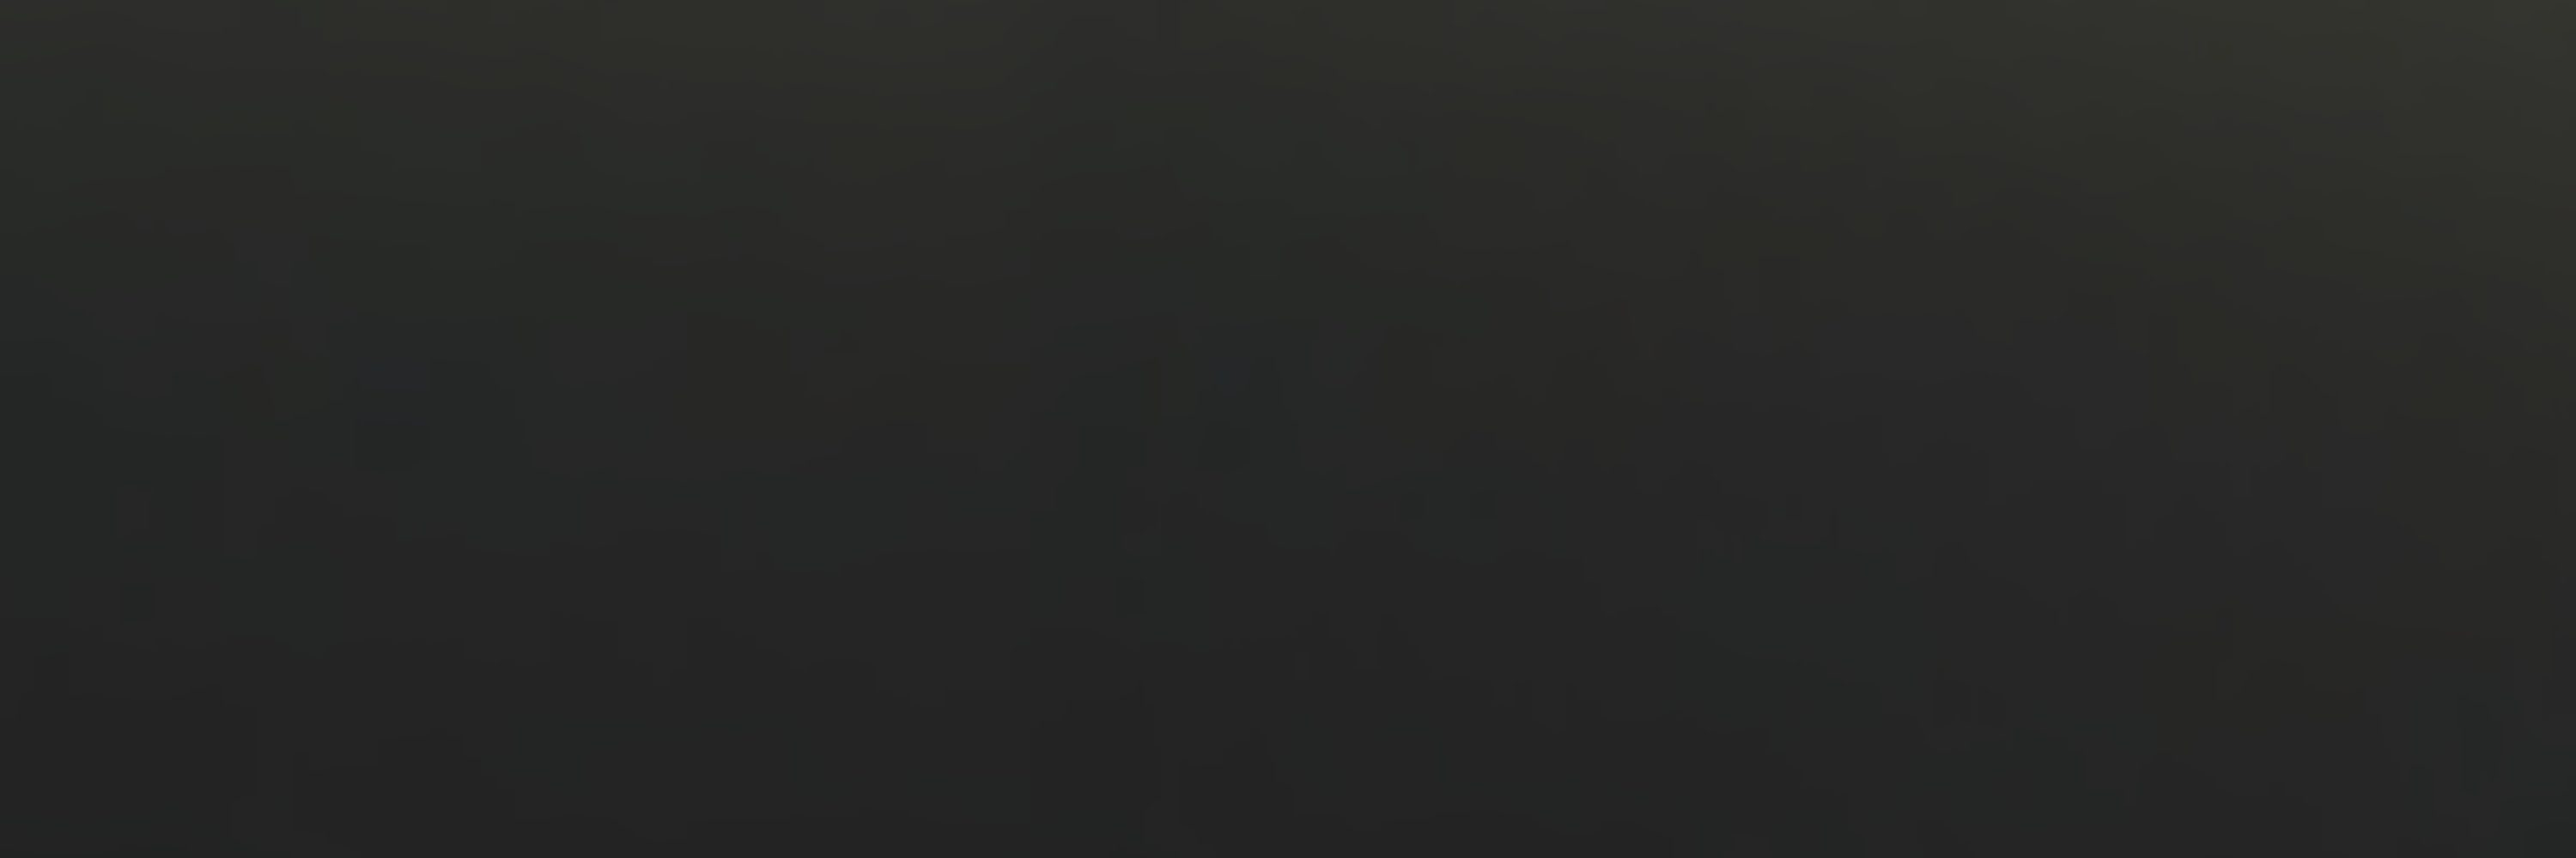
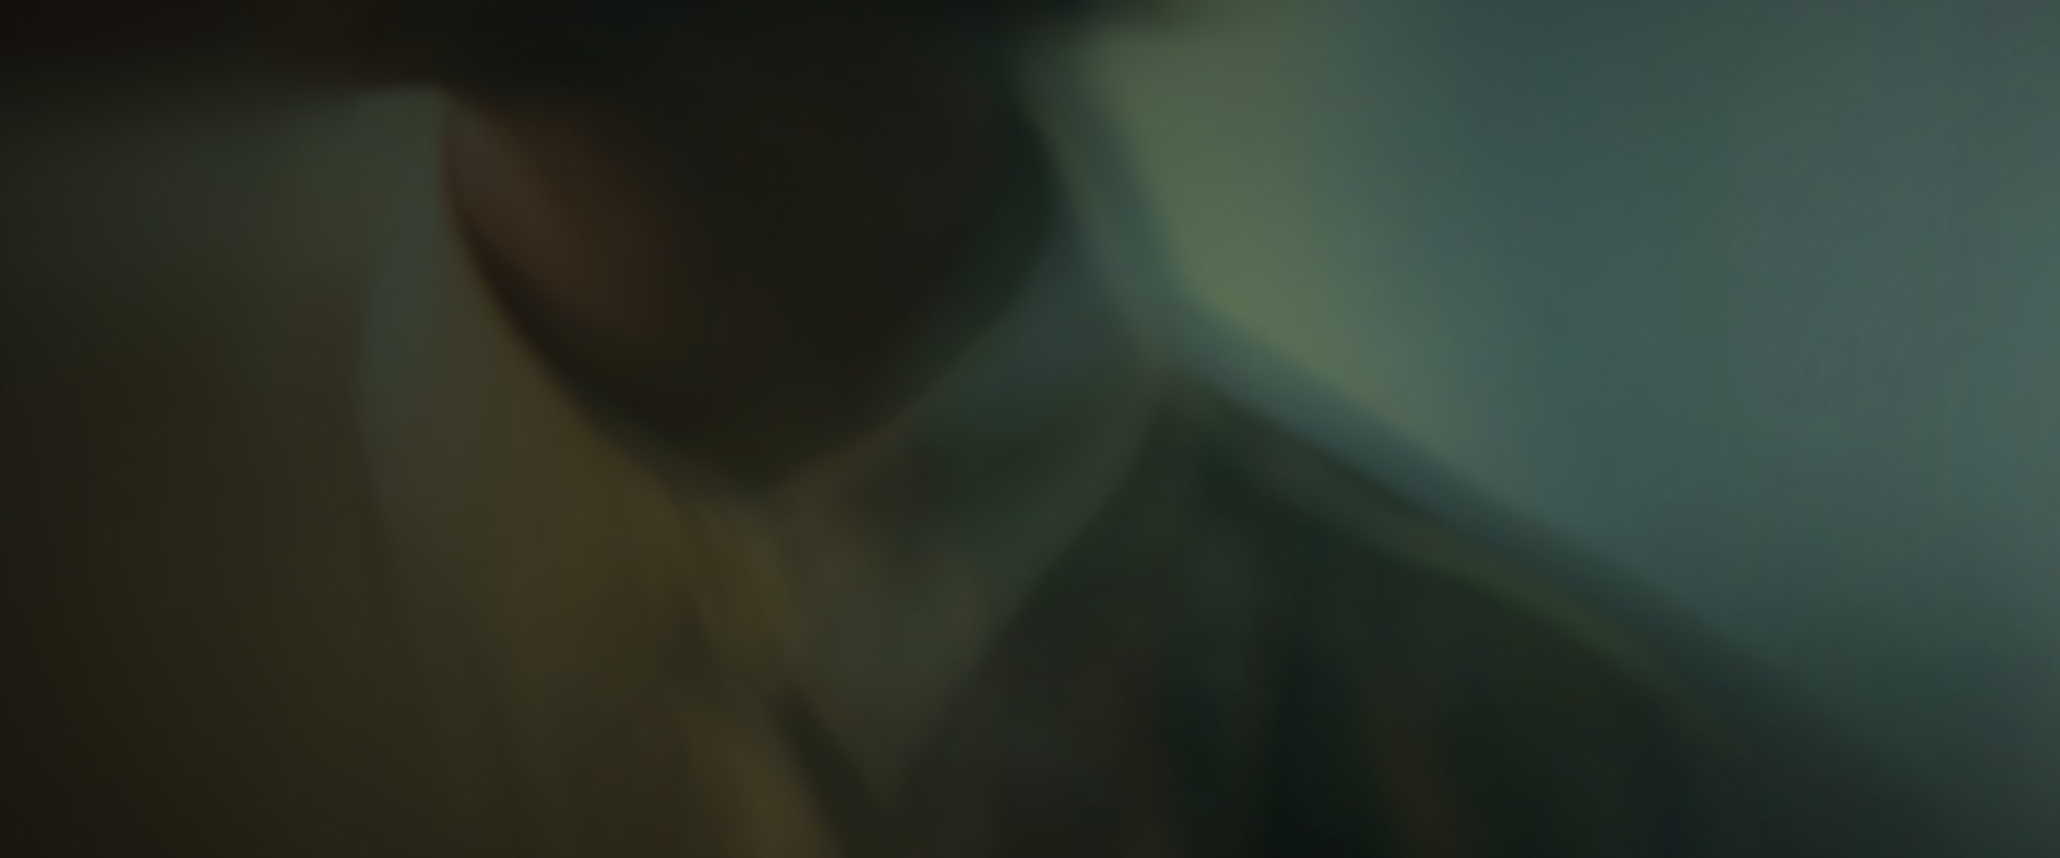
Add files via upload

diff --git a/build-a-brand.html b/build-a-brand.html
@@ -308,7 +308,7 @@
 
   /* CTA */
   .cta-sec{position:relative;overflow:hidden;background:#0C0C0D url("/assets/cta.jpg") center/cover no-repeat}
-  .cta-sec::before{content:"";position:absolute;inset:0;background:linear-gradient(90deg,rgba(12,12,13,.85),rgba(12,12,13,.35))}
+  .cta-sec::before{content:"";position:absolute;inset:0;background:linear-gradient(90deg,rgba(12,12,13,.45),rgba(12,12,13,0))}
   .cta-sec .wrap{position:relative;z-index:1}
   .cta-sec h2{font-size:clamp(34px,5vw,64px);max-width:16ch}
   .cta-sec .row{display:flex;gap:12px;flex-wrap:wrap;margin-top:34px}

diff --git a/framework.html b/framework.html
@@ -268,7 +268,7 @@
 
   /* CTA */
   .cta-sec{position:relative;overflow:hidden;background:#0C0C0D url("/assets/cta.jpg") center/cover no-repeat}
-  .cta-sec::before{content:"";position:absolute;inset:0;background:linear-gradient(90deg,rgba(12,12,13,.85),rgba(12,12,13,.35))}
+  .cta-sec::before{content:"";position:absolute;inset:0;background:linear-gradient(90deg,rgba(12,12,13,.45),rgba(12,12,13,0))}
   .cta-sec .wrap{position:relative;z-index:1}
   .cta-sec h2{font-size:clamp(34px,5vw,64px);max-width:16ch}
   .cta-sec .row{display:flex;gap:12px;flex-wrap:wrap;margin-top:34px}

diff --git a/hvorfor-genrise.html b/hvorfor-genrise.html
@@ -305,7 +305,7 @@
 
   /* CTA */
   .cta-sec{position:relative;overflow:hidden;background:#0C0C0D url("/assets/cta.jpg") center/cover no-repeat}
-  .cta-sec::before{content:"";position:absolute;inset:0;background:linear-gradient(90deg,rgba(12,12,13,.85),rgba(12,12,13,.35))}
+  .cta-sec::before{content:"";position:absolute;inset:0;background:linear-gradient(90deg,rgba(12,12,13,.45),rgba(12,12,13,0))}
   .cta-sec .wrap{position:relative;z-index:1}
   .cta-sec h2{font-size:clamp(34px,5vw,64px);max-width:16ch}
   .cta-sec .row{display:flex;gap:12px;flex-wrap:wrap;margin-top:34px}

diff --git a/index.html b/index.html
@@ -408,7 +408,7 @@
 
   /* CTA */
   .cta-sec{position:relative;overflow:hidden;background:#0C0C0D url("/assets/cta.jpg") center/cover no-repeat}
-  .cta-sec::before{content:"";position:absolute;inset:0;background:linear-gradient(90deg,rgba(12,12,13,.85),rgba(12,12,13,.35))}
+  .cta-sec::before{content:"";position:absolute;inset:0;background:linear-gradient(90deg,rgba(12,12,13,.45),rgba(12,12,13,0))}
   .cta-sec .wrap{position:relative;z-index:1}
   .cta-sec h2{font-size:clamp(34px,5vw,64px);max-width:16ch}
   .cta-sec .row{display:flex;gap:12px;flex-wrap:wrap;margin-top:34px}

diff --git a/karriere.html b/karriere.html
@@ -371,7 +371,7 @@
 
   /* CTA */
   .cta-sec{position:relative;overflow:hidden;background:#0C0C0D url("/assets/cta.jpg") center/cover no-repeat}
-  .cta-sec::before{content:"";position:absolute;inset:0;background:linear-gradient(90deg,rgba(12,12,13,.85),rgba(12,12,13,.35))}
+  .cta-sec::before{content:"";position:absolute;inset:0;background:linear-gradient(90deg,rgba(12,12,13,.45),rgba(12,12,13,0))}
   .cta-sec .wrap{position:relative;z-index:1}
   .cta-sec h2{font-size:clamp(34px,5vw,64px);max-width:16ch}
   .cta-sec .row{display:flex;gap:12px;flex-wrap:wrap;margin-top:34px}

diff --git a/om-os.html b/om-os.html
@@ -299,7 +299,7 @@
 
   /* CTA */
   .cta-sec{position:relative;overflow:hidden;background:#0C0C0D url("/assets/cta.jpg") center/cover no-repeat}
-  .cta-sec::before{content:"";position:absolute;inset:0;background:linear-gradient(90deg,rgba(12,12,13,.85),rgba(12,12,13,.35))}
+  .cta-sec::before{content:"";position:absolute;inset:0;background:linear-gradient(90deg,rgba(12,12,13,.45),rgba(12,12,13,0))}
   .cta-sec .wrap{position:relative;z-index:1}
   .cta-sec h2{font-size:clamp(34px,5vw,64px);max-width:16ch}
   .cta-sec .row{display:flex;gap:12px;flex-wrap:wrap;margin-top:34px}

diff --git a/paid-acquisition.html b/paid-acquisition.html
@@ -355,7 +355,7 @@
 
   /* CTA */
   .cta-sec{position:relative;overflow:hidden;background:#0C0C0D url("/assets/cta.jpg") center/cover no-repeat}
-  .cta-sec::before{content:"";position:absolute;inset:0;background:linear-gradient(90deg,rgba(12,12,13,.85),rgba(12,12,13,.35))}
+  .cta-sec::before{content:"";position:absolute;inset:0;background:linear-gradient(90deg,rgba(12,12,13,.45),rgba(12,12,13,0))}
   .cta-sec .wrap{position:relative;z-index:1}
   .cta-sec h2{font-size:clamp(34px,5vw,64px);max-width:16ch}
   .cta-sec .row{display:flex;gap:12px;flex-wrap:wrap;margin-top:34px}

diff --git a/priser.html b/priser.html
@@ -299,7 +299,7 @@
 
   /* CTA */
   .cta-sec{position:relative;overflow:hidden;background:#0C0C0D url("/assets/cta.jpg") center/cover no-repeat}
-  .cta-sec::before{content:"";position:absolute;inset:0;background:linear-gradient(90deg,rgba(12,12,13,.85),rgba(12,12,13,.35))}
+  .cta-sec::before{content:"";position:absolute;inset:0;background:linear-gradient(90deg,rgba(12,12,13,.45),rgba(12,12,13,0))}
   .cta-sec .wrap{position:relative;z-index:1}
   .cta-sec h2{font-size:clamp(34px,5vw,64px);max-width:16ch}
   .cta-sec .row{display:flex;gap:12px;flex-wrap:wrap;margin-top:34px}

diff --git a/shopify-websites.html b/shopify-websites.html
@@ -355,7 +355,7 @@
 
   /* CTA */
   .cta-sec{position:relative;overflow:hidden;background:#0C0C0D url("/assets/cta.jpg") center/cover no-repeat}
-  .cta-sec::before{content:"";position:absolute;inset:0;background:linear-gradient(90deg,rgba(12,12,13,.85),rgba(12,12,13,.35))}
+  .cta-sec::before{content:"";position:absolute;inset:0;background:linear-gradient(90deg,rgba(12,12,13,.45),rgba(12,12,13,0))}
   .cta-sec .wrap{position:relative;z-index:1}
   .cta-sec h2{font-size:clamp(34px,5vw,64px);max-width:16ch}
   .cta-sec .row{display:flex;gap:12px;flex-wrap:wrap;margin-top:34px}

diff --git a/strategy-advisory.html b/strategy-advisory.html
@@ -355,7 +355,7 @@
 
   /* CTA */
   .cta-sec{position:relative;overflow:hidden;background:#0C0C0D url("/assets/cta.jpg") center/cover no-repeat}
-  .cta-sec::before{content:"";position:absolute;inset:0;background:linear-gradient(90deg,rgba(12,12,13,.85),rgba(12,12,13,.35))}
+  .cta-sec::before{content:"";position:absolute;inset:0;background:linear-gradient(90deg,rgba(12,12,13,.45),rgba(12,12,13,0))}
   .cta-sec .wrap{position:relative;z-index:1}
   .cta-sec h2{font-size:clamp(34px,5vw,64px);max-width:16ch}
   .cta-sec .row{display:flex;gap:12px;flex-wrap:wrap;margin-top:34px}
